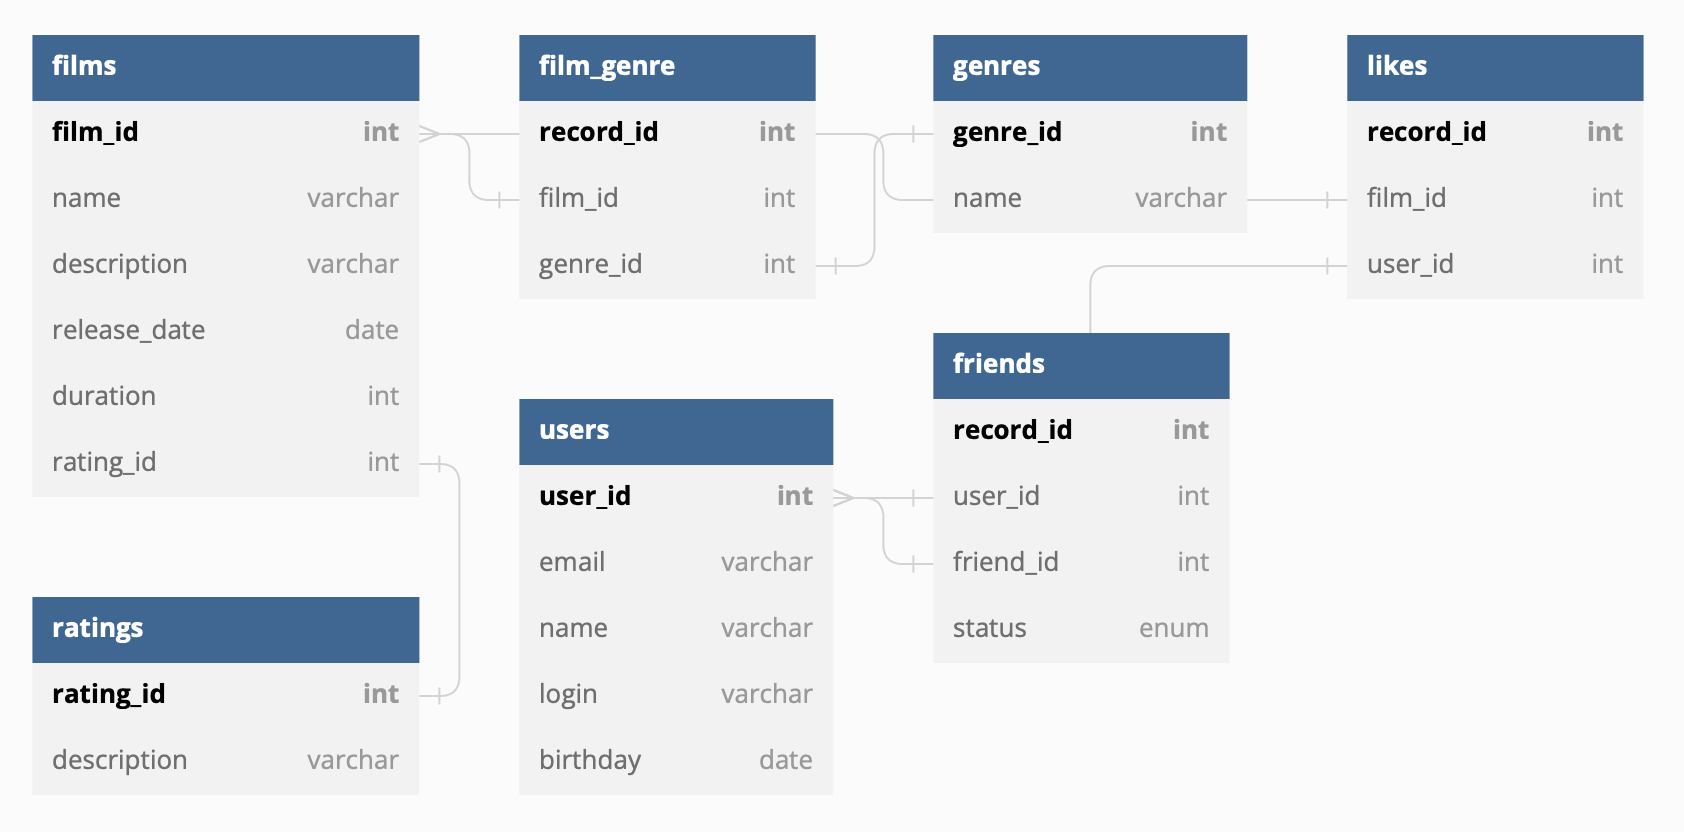
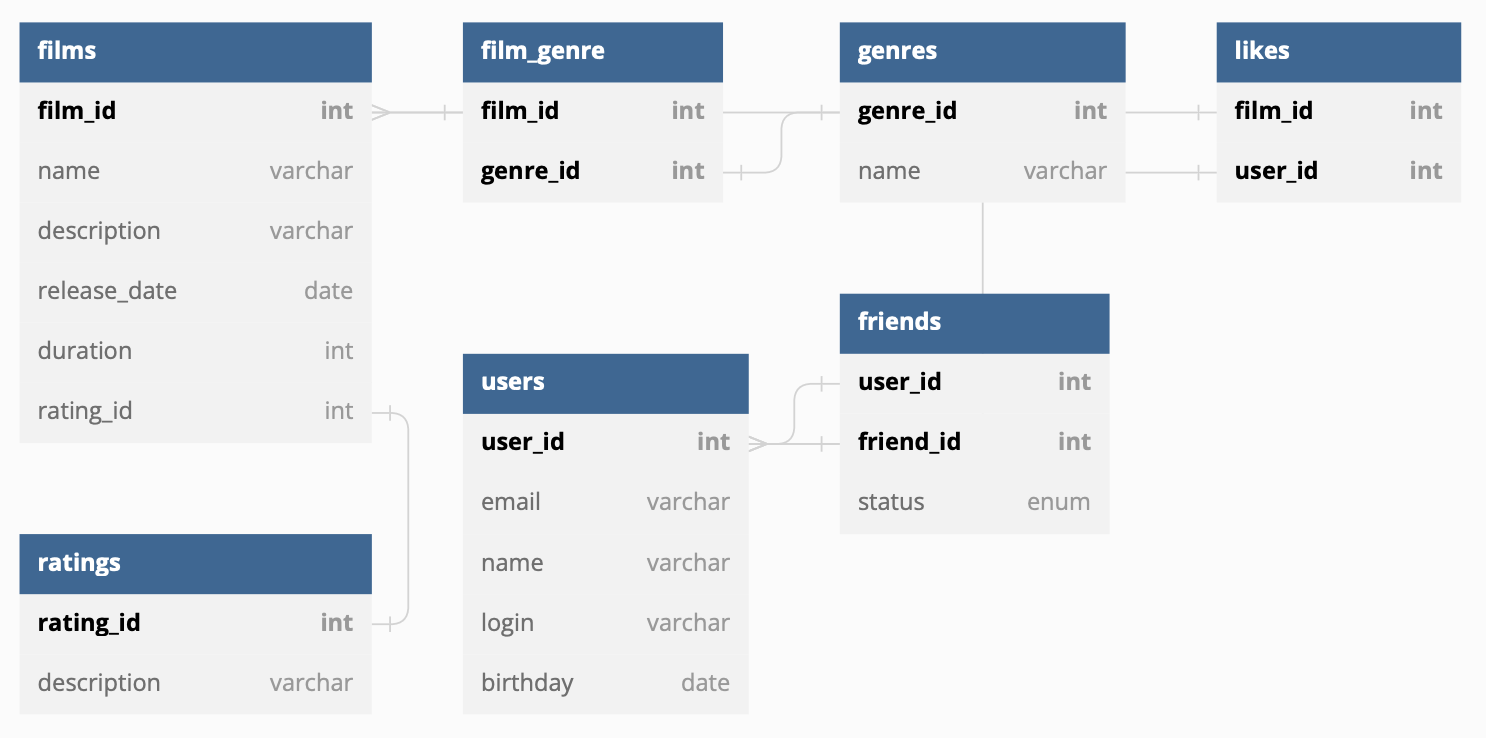
add new pics

diff --git a/README.md b/README.md
@@ -2,6 +2,8 @@
 Template repository for Filmorate project.
 
 # Database structure
-For more information, see [database diagram on website](https://dbdiagram.io/d/63629c7fc9abfc61116fdd8a)
+Исправленная версия [диаграммы](https://dbdiagram.io/d/63629c7fc9abfc61116fdd8a) базы данных.
+
+Рекомендации другого студента находятся в папке pics.
 
 ![pic1](./pics/table.png)
